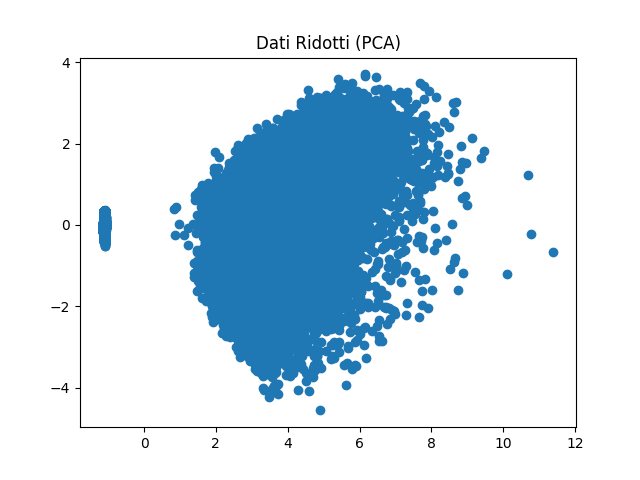
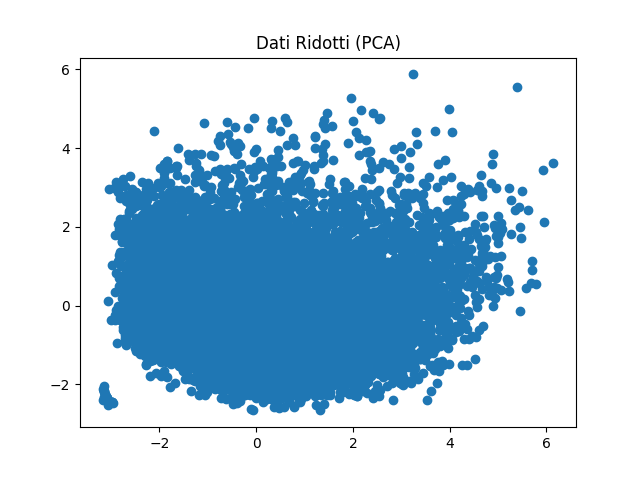
fix: remove film with no tags

diff --git a/scripts/script.py b/scripts/script.py
@@ -11,17 +11,23 @@ genome_tags_path = '../movielens/genome-tags.csv'
 
 # Step 1: Caricamento dei file
 movies_df = pd.read_csv(movies_path)
-links_df = pd.read_csv(links_path)
+links_df = pd.read_csv(links_path).drop(columns=['imdbId'])
 genome_scores_df = pd.read_csv(genome_scores_path)
 genome_tags_df = pd.read_csv(genome_tags_path)
 
 # Step 1.1: Rimuove i films con mancanti TMDb IDs
 links_df = links_df[links_df['tmdbId'].notnull() & (links_df['tmdbId'] > 0)]
+# Step 1.2 Rimuovere i films con generi mancanti
+movies_df = movies_df[movies_df['genres'] != '(no genres listed)']
 
 # Step 2: Unione dei dataset
 genome_scores_with_tags = genome_scores_df.merge(genome_tags_df, on="tagId")
 movies_with_tags = movies_df.merge(genome_scores_with_tags, on="movieId")
 final_dataset = movies_with_tags.merge(links_df[['movieId', 'tmdbId']], on="movieId")
+
+# Filtra i film senza tag
+tagged_movie_ids = genome_scores_with_tags['movieId'].unique()
+movies_df = movies_df[movies_df['movieId'].isin(tagged_movie_ids)]
 
 # Step 3: Prepara i dati per clustering
 movies_df['genres_list'] = movies_df['genres'].apply(lambda x: x.split('|'))
